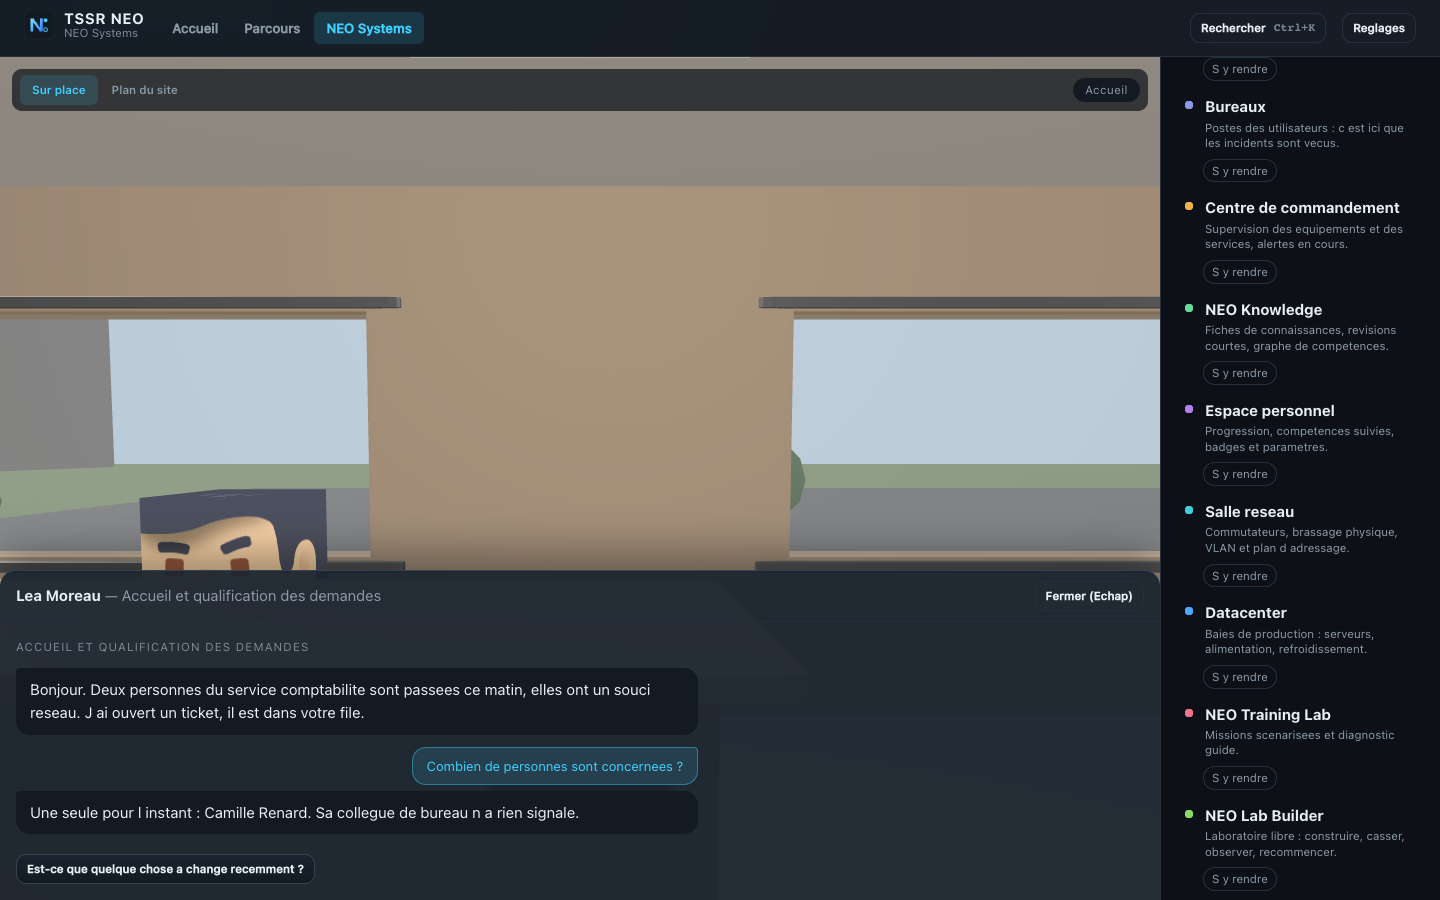
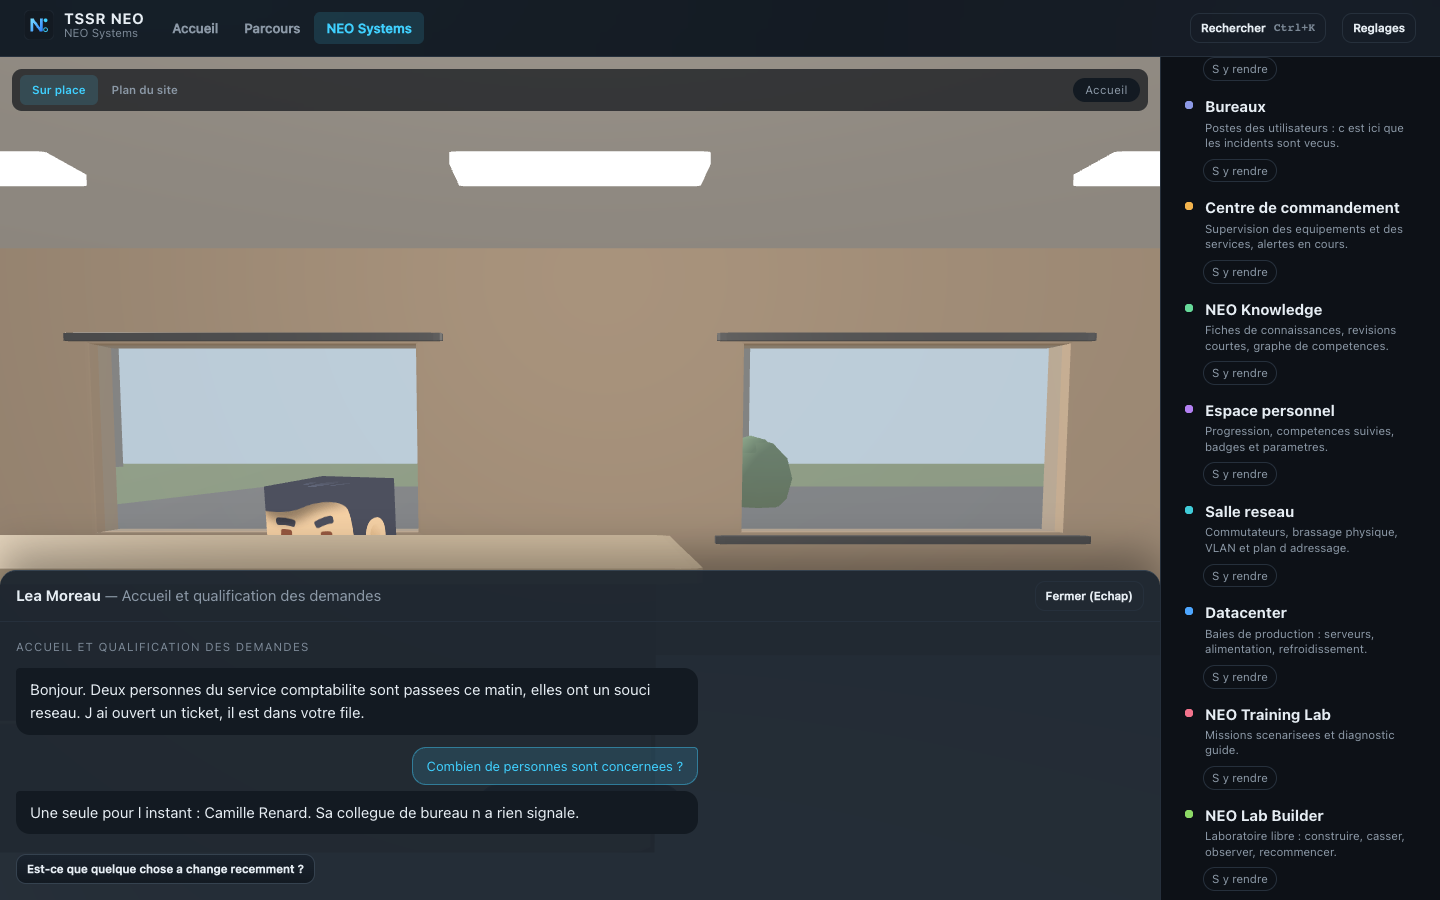
docs(v0.5): captures d assurance qualite prises sur la production
Dix-sept points de vue fixes, dont le panneau des commandes, une conversation,
un poste ouvert, et le technicien en tournee devant les baies vitrees.

Une capture annoncait l exterieur et montrait un mur interieur : le batiment ne
se visite pas depuis dehors, ce qu il faut montrer est qu il donne sur quelque
chose et qu il est habite. Elle porte desormais ce qu elle contient.

diff --git a/docs/audit-campus-v0.5.md b/docs/audit-campus-v0.5.md
@@ -135,3 +135,26 @@ du campus qui echoue si quiconque quitte le sol marchable.
    personne assise a son poste chevauche donc celui de son bureau, ce qui est
    voulu : ce qu on interdit est de traverser la structure du batiment, pas de
    s asseoir sur une chaise.
+
+
+---
+
+## 6. Artefacts
+
+| Repertoire                        | Contenu                                          |
+| --------------------------------- | ------------------------------------------------ |
+| `docs/audit/v0.5/qa/`             | dix-sept captures, serveur local                 |
+| `docs/audit/v0.5/qa-production/`  | les memes, prises sur l URL publiee              |
+
+Rejouables :
+
+```bash
+npx tsx scripts/crawler-campus.mjs          # detecteur de defauts
+node scripts/captures-qa.mjs                # captures depuis des points fixes
+```
+
+Pour comparer a la production plutot qu au serveur local :
+
+```bash
+TSSR_TEST_URL=https://sk34pk25.github.io/TSSR-NEO/ OUT=docs/audit/v0.5/qa-production node scripts/captures-qa.mjs
+```
